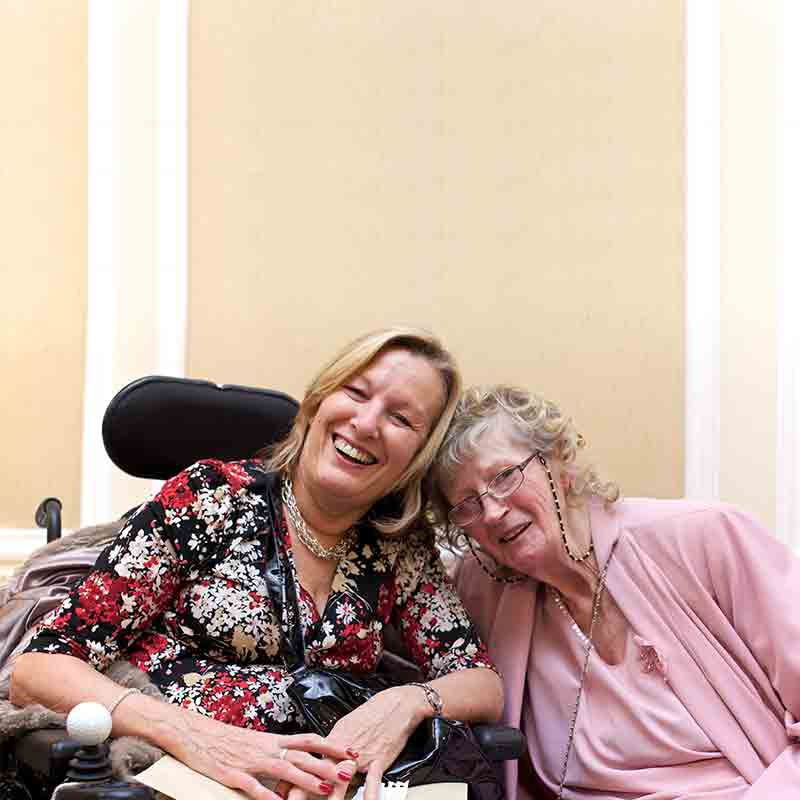
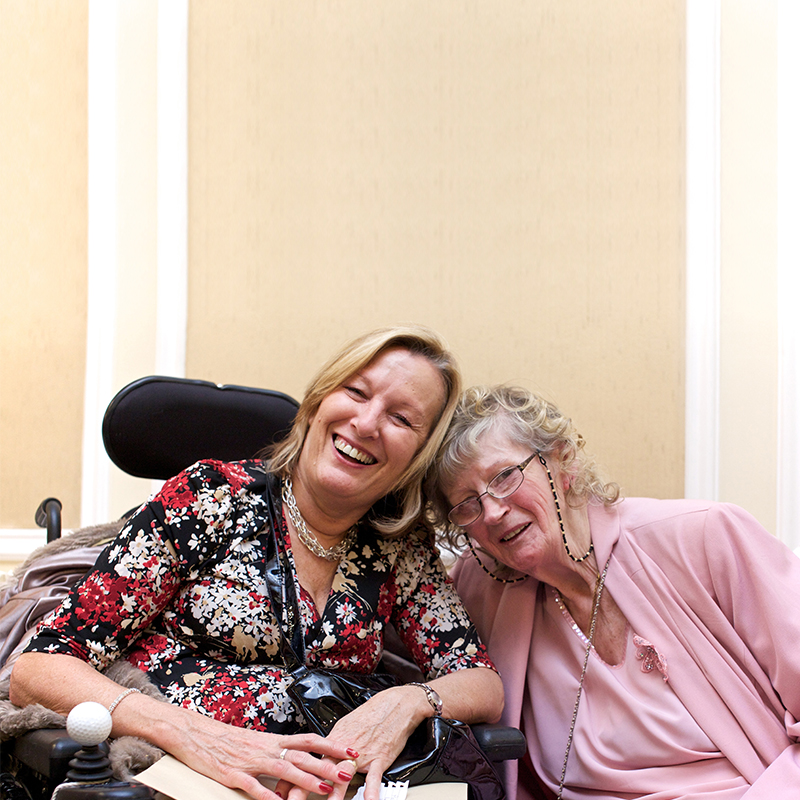
Added watermark

diff --git a/index.html b/index.html
@@ -210,7 +210,7 @@
 																					<p>The years ahead will certainly hold both challenges and opportunities. We’re planning for both. <a class="read_more" href="http://www.valonline.org.uk/about/our-impact/years-ahead">Learn more</a></p></div>
 																				</section>
 																
-																				<section id="share-this" data-background="#f18903">
+																				<section id="share-this" data-background="images/val-watermark.jpg">
 																					<h2>Share this</h2>
 																					<p>Thanks for a brilliant 2014-15</p>
 																					<ul class="btn-list">

diff --git a/css/theme/valannualreview.css b/css/theme/valannualreview.css
@@ -440,7 +440,7 @@ a.btn {
   text-align: left;
   padding-left: 170px;
   background-color: #F29B36;
-  background-position: 40px 40px;
+  background-position: 40px 30px;
   background-repeat: no-repeat;
   background-image: url(../../images/val-logo-svg-fallback.png);
   background-image: linear-gradient(transparent, transparent), url(../../images/val-logo.svg);

diff --git a/css/theme/source/valannualreview.scss b/css/theme/source/valannualreview.scss
@@ -252,7 +252,7 @@ $orange: #F29B36;
 		text-align: left;
 		padding-left: 170px;
 		background-color: $orange;
-		background-position: 40px 40px;
+		background-position: 40px 30px;
 		background-repeat: no-repeat;
 		background-image: url(../../images/val-logo-svg-fallback.png);
 		background-image: 
